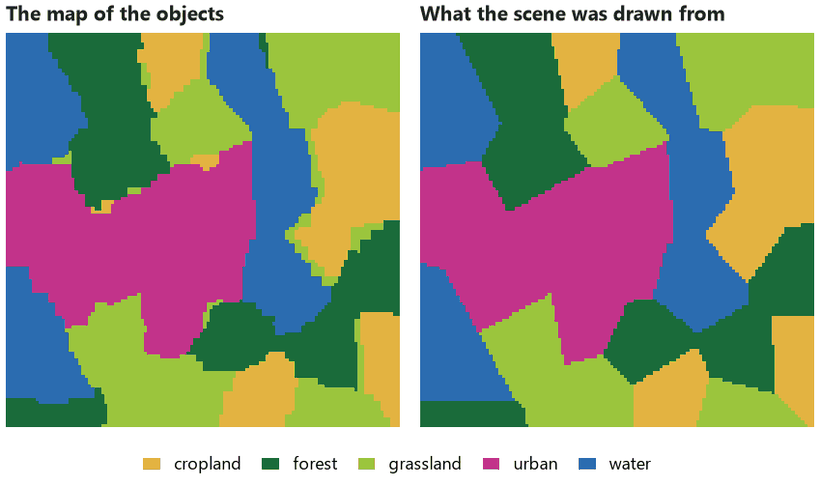
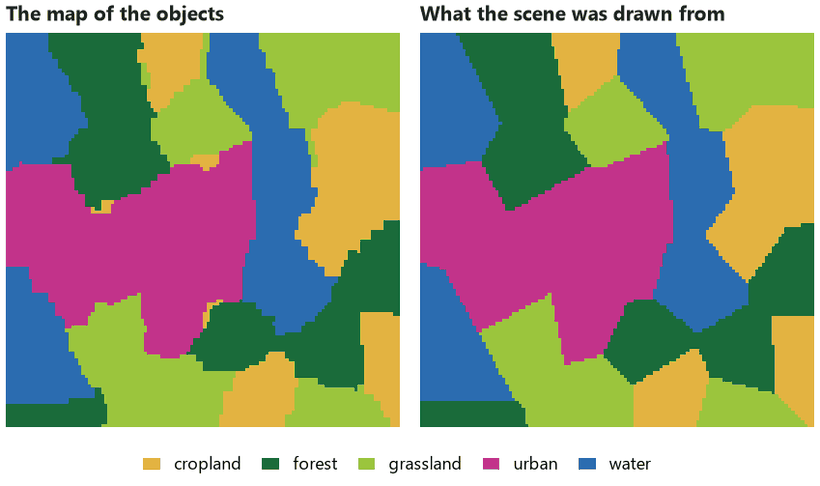
docs(website): the first OBIA tutorial and From eCognition follow the template's new scene: scale 2 set beside ESP's 1.92, 59 samples, folds by blocks, mean_green left out; 107 objects, 94.8 % of the cells, kappa 0.86, figures drawn again

diff --git a/website/figures/object-based-image-analysis/first-map-by-objects.py b/website/figures/object-based-image-analysis/first-map-by-objects.py
@@ -1,8 +1,8 @@
 """Figures of "Your first map by objects in 10 minutes" (tutorials/object-based-image-analysis/first-map-by-objects.md).
 
 The template of the page, "Classify an image by clicking samples" (its nodes as templates.rs writes them: the synthetic
-scene nlm.mosaic_gibbs -> nlm.image, multiresolution at the scale ESP suggests, features, the 38 example points, a random
-forest, the classes, the polygons), run as it is, plus the page's check (objects.sample, labelled here from the scene's
+scene nlm.mosaic_gibbs -> nlm.image, multiresolution at scale 2 (about what ESP suggests), features, the 59 example points, folds by
+place, a random forest, the classes, the polygons), run as it is, plus the page's check (objects.sample, labelled here from the scene's
 truth, objects.accuracy). The figures draw what the page walks through: the image, its objects, the samples, the classes,
 the margin, the accuracy and the scale slider.
 Run with: python website/figures/object-based-image-analysis/first-map-by-objects.py   (at most 2 threads: it sets them)
@@ -35,15 +35,15 @@ NAMES = ["cropland", "forest", "grassland", "urban", "water"]  # alphabetical: t
 TRUTH = {1: "water", 2: "forest", 3: "grassland", 4: "cropland", 5: "urban"}  # the scene's codes
 COLORS = {"water": "#2b6cb0", "forest": "#1a6b3a", "grassland": "#9bc53d", "cropland": "#e3b341", "urban": "#c2338a"}
 
-# the points of the template's table (x, y, class): 38 of them, the page says
-SAMPLE_ROWS = """[[9.5, 104.5, "water"], [85.5, 46.5, "water"], [5.5, 38.5, "water"], [9.5, 86.5, "water"], [68.5, 112.5, "water"], [84.5, 78.5, "water"], [10.5, 18.5, "water"], [83.5, 62.5, "water"], [10.5, 3.5, "forest"], [98.5, 30.5, "forest"], [29.5, 97.5, "forest"], [100.5, 19.5, "forest"], [89.5, 22.5, "forest"], [23.5, 110.5, "forest"], [39.5, 91.5, "forest"], [38.5, 103.5, "forest"], [65.5, 90.5, "grassland"], [92.5, 100.5, "grassland"], [87.5, 114.5, "grassland"], [29.5, 20.5, "grassland"], [106.5, 111.5, "grassland"], [94.5, 7.5, "grassland"], [115.5, 69.5, "cropland"], [96.5, 55.5, "cropland"], [114.5, 8.5, "cropland"], [114.5, 85.5, "cropland"], [104.5, 75.5, "cropland"], [74.5, 7.5, "cropland"], [76.5, 16.5, "cropland"], [49.5, 110.5, "cropland"], [71.5, 60.5, "urban"], [60.5, 70.5, "urban"], [26.5, 43.5, "urban"], [59.5, 44.5, "urban"], [55.5, 58.5, "urban"], [20.5, 35.5, "urban"], [64.5, 61.5, "urban"], [50.5, 31.5, "urban"]]"""
+# the points of the template's table (x, y, class): 59 of them, twelve per class (eleven of grassland)
+SAMPLE_ROWS = """[[8.5, 105.5, "water"], [84.5, 44.5, "water"], [9.5, 17.5, "water"], [68.5, 113.5, "water"], [85.5, 77.5, "water"], [4.5, 38.5, "water"], [9.5, 86.5, "water"], [82.5, 61.5, "water"], [77.5, 100.5, "water"], [22.5, 13.5, "water"], [20.5, 92.5, "water"], [66.5, 102.5, "water"], [99.5, 23.5, "forest"], [23.5, 111.5, "forest"], [10.5, 3.5, "forest"], [42.5, 79.5, "forest"], [67.5, 26.5, "forest"], [111.5, 46.5, "forest"], [38.5, 102.5, "forest"], [25.5, 75.5, "forest"], [82.5, 26.5, "forest"], [35.5, 114.5, "forest"], [39.5, 91.5, "forest"], [29.5, 96.5, "forest"], [107.5, 109.5, "grassland"], [37.5, 5.5, "grassland"], [51.5, 96.5, "grassland"], [94.5, 6.5, "grassland"], [87.5, 115.5, "grassland"], [38.5, 24.5, "grassland"], [90.5, 100.5, "grassland"], [64.5, 91.5, "grassland"], [44.5, 15.5, "grassland"], [60.5, 101.5, "grassland"], [29.5, 20.5, "grassland"], [50.5, 111.5, "cropland"], [115.5, 10.5, "cropland"], [115.5, 85.5, "cropland"], [74.5, 6.5, "cropland"], [97.5, 55.5, "cropland"], [96.5, 83.5, "cropland"], [116.5, 68.5, "cropland"], [83.5, 19.5, "cropland"], [114.5, 25.5, "cropland"], [105.5, 74.5, "cropland"], [104.5, 91.5, "cropland"], [96.5, 66.5, "cropland"], [56.5, 71.5, "urban"], [4.5, 71.5, "urban"], [51.5, 30.5, "urban"], [21.5, 35.5, "urban"], [36.5, 52.5, "urban"], [68.5, 57.5, "urban"], [70.5, 79.5, "urban"], [59.5, 44.5, "urban"], [10.5, 58.5, "urban"], [55.5, 58.5, "urban"], [24.5, 55.5, "urban"], [17.5, 68.5, "urban"]]"""
 
 SCENE = """format = "terraflux/1"
 
 [[nodes]]
 id = "land"
 op = "nlm.mosaic_gibbs"
-params = { rows = 120, columns = 120, germs = 30, r = 12, patch_classes = 5, nlmr_compat = false, rescale = false, seed = 4 }
+params = { rows = 120, columns = 120, germs = 30, r = 12, patch_classes = 5, nlmr_compat = false, rescale = false, seed = 4, crs = "EPSG:32633" }
 
 [[nodes]]
 id = "image"
@@ -55,6 +55,7 @@ params = { seed = 1 }
 id = "segments"
 op = "segment.multiresolution"
 inputs = { image = "image.image" }
+params = { scale = 2 }
 """
 
 CLASSIFY = """
@@ -82,10 +83,22 @@ op = "objects.samples"
 inputs = { objects = "features.objects", samples = "samples.vector" }
 
 [[nodes]]
+id = "folds"
+op = "objects.folds"
+inputs = { objects = "training.objects", samples = "training.table" }
+params = { method = "blocks", size = 30, k = 4, seed = 1 }
+
+[[nodes]]
 id = "model"
 op = "ml.fit"
+inputs = { table = "folds.table" }
+params = { column = "class", columns = ["mean_blue", "mean_red", "mean_nir", "mean_swir1", "mean_swir2", "sd_blue", "sd_green", "sd_red", "sd_nir", "sd_swir1", "sd_swir2", "ndvi", "area", "compactness", "glcm_homogeneity"], fold = "fold", method = "random_forest", seed = 1 }
+
+[[nodes]]
+id = "random_model"
+op = "ml.fit"
 inputs = { table = "training.table" }
-params = { column = "class", method = "random_forest", seed = 1 }
+params = { column = "class", columns = ["mean_blue", "mean_red", "mean_nir", "mean_swir1", "mean_swir2", "sd_blue", "sd_green", "sd_red", "sd_nir", "sd_swir1", "sd_swir2", "ndvi", "area", "compactness", "glcm_homogeneity"], cv = 4, method = "random_forest", seed = 1 }
 
 [[nodes]]
 id = "classify"
@@ -184,9 +197,10 @@ def main():
     m = base + node("ids", "objects.to_map", '{ objects = "segments.objects" }', '{ what = "id" }')
     m += node("cls", "objects.to_map", '{ objects = "classify.objects" }', '{ what = "class" }')
     m += CHECK
+    m += node("auto", "segment.multiresolution", '{ image = "image.image" }')  # no scale: the one ESP suggests
     w = {"image.image": "image.tif", "image.truth": "truth.tif", "ids.map": "ids.tif", "cls.map": "cls.tif",
-         "segments.scale": "scale.json", "classify.table": "classify.csv",
-         "segments.table": "objects.csv", "model.importance": "importance.csv"}
+         "auto.scale": "scale.json", "classify.table": "classify.csv",
+         "segments.table": "objects.csv", "model.importance": "importance.csv", "model.cv": "cv_place.csv", "random_model.cv": "cv_random.csv"}
     r = figs.run(figs.add_writes(m, w), work, "--threads", "2", "--no-journal")
     print(r.stdout[-600:], r.stderr[-1500:])
     out = work / "output"
@@ -304,8 +318,9 @@ def main():
         ok += NAMES[t - 1] == c
     print("training objects", len(train), "of", len(cmap), "others right", ok, "of", tot)
 
-    # 8. the scale: the same classification at several scales (the template's own scale first)
+    # 8. the scale: the same segmentation at half to four times the template's scale 2 (ESP suggests `sc`)
     print("suggested", sc)
+    sc = 2.0
     factors = [0.5, 1, 2, 4]
     ms = SCENE.rsplit("[[nodes]]", 1)[0]  # no segments node
     wr = {}

diff --git a/website/content/tutorials/object-based-image-analysis/first-map-by-objects.md b/website/content/tutorials/object-based-image-analysis/first-map-by-objects.md
@@ -69,6 +69,7 @@ params = { seed = 1 }
 id = "segments"
 op = "segment.multiresolution"
 inputs = { image = "image.image" }
+params = { scale = 2 }
 
 [[nodes]]
 id = "features"
@@ -81,10 +82,16 @@ op = "objects.samples"
 inputs = { objects = "features.objects", samples = "samples.vector" }
 
 [[nodes]]
+id = "folds"
+op = "objects.folds"
+inputs = { objects = "training.objects", samples = "training.table" }
+params = { method = "blocks", size = 30, k = 4, seed = 1 }
+
+[[nodes]]
 id = "model"
 op = "ml.fit"
-inputs = { table = "training.table" }
-params = { column = "class", method = "random_forest", seed = 1 }
+inputs = { table = "folds.table" }
+params = { column = "class", columns = ["mean_blue", "mean_red", "mean_nir", "mean_swir1", "mean_swir2", "sd_blue", "sd_green", "sd_red", "sd_nir", "sd_swir1", "sd_swir2", "ndvi", "area", "compactness", "glcm_homogeneity"], fold = "fold", method = "random_forest", seed = 1 }
 
 [[nodes]]
 id = "classify"
@@ -92,18 +99,27 @@ op = "objects.classify"
 inputs = { objects = "features.objects", model = "model.model", samples = "training.table" }
 ```
 
-The model also has nodes for the example points (`sample_table`, `samples`), the polygons (`polygons`, `write`) and a
-Plot (`plot`). Click the last node, `plot`, and press ++ctrl+enter++ (**Run to here** in the Model pane's bar): the
-nodes it needs run, and the Viewer shows the map of classes.
+The model also has nodes for the example points (`sample_table`, `samples`), a second forest for comparison
+(`random_model`), the polygons (`polygons`, `write`) and a Plot (`plot`). The node `folds` deals the samples into four
+folds by place ([[objects.folds]]) so that `model` can tell, with its `cv` output, how well it does on objects far from
+those it learned from; part 5 takes this up. The forest reads the attributes but `mean_green`, which moves with
+`mean_red` (their correlation is 0.98) and would only be told as one of two almost equal.
+
+The template opens with one warning in the Problems pane, on purpose: the node `random_model` fits the same forest
+with folds drawn at random, to compare with the folds by place, and the warning says that random folds give a higher
+accuracy than the model will have on other places.
+
+Click the last node, `plot`, and press ++ctrl+enter++ (**Run to here** in the Model pane's bar): the nodes it needs
+run, and the Viewer shows the map of classes.
 
 ## Look at the objects
 
-Click the node `segments`. The Viewer shows the objects, each outlined, and says how many there are: 116 in this
+Click the node `segments`. The Viewer shows the objects, each outlined, and says how many there are: 107 in this
 scene. In the controls
 beside the map, **Fill** chooses how they are coloured (*no fill*, *by class* once they have classes, or *a colour
 each*), and **Outline** and *width* the lines.
 
-![The objects over the image](/img/tutorials/object-based-image-analysis/first-map-by-objects/objects.png "The 116 objects of the template, outlined over the image in true colour. An object stops where the colour changes; a big uniform area (the town in the middle) is cut into a few large objects.")
+![The objects over the image](/img/tutorials/object-based-image-analysis/first-map-by-objects/objects.png "The 107 objects of the template, outlined over the image in true colour. An object stops where the colour changes; a big uniform area (the town in the middle) is cut into a score of large objects.")
 
 - Move the pointer over the map: the object under it is told and outlined.
 - Click an object to select it. Below the map the attribute table has a row per object, and the selected object's
@@ -113,20 +129,23 @@ each*), and **Outline** and *width* the lines.
 
 ![One object and its neighbours](/img/tutorials/object-based-image-analysis/first-map-by-objects/selected.png "An object selected (orange) and, after N, its neighbours (blue), drawn here as the Viewer draws them. The inspector lists the attributes of the selected object.")
 
-The size of the objects comes from the **scale** of the segmentation. The template gives none, so
-[[segment.multiresolution]] takes the first scale that [[segment.scale]] suggests for the image (the `scale` output
-says which one: 1.92 here). Select `segments`, set `scale` in the Node pane to a larger value, run again, and the
-objects are larger and fewer; to a smaller one, and they are smaller and more numerous. Move the slider to see it
-on this scene, with the scale from half to four times the suggestion.
+The size of the objects comes from the **scale** of the segmentation. Left empty, [[segment.multiresolution]] takes
+the first scale that [[segment.scale]] suggests for the image (its `scale` output says which one, and a warning
+tells it was used: 1.92 on this scene). The template sets `scale = 2`, close to that suggestion, so that the
+example points always fall on the same objects: the samples of the template are points, and a point picks the object
+under it, so another scale would put some of them on objects of a different look. Select `segments`, set `scale` in
+the Node pane to a larger value, run again, and the objects are larger and fewer; to a smaller one, and they are
+smaller and more numerous. Move the slider to see it on this scene, with the scale from half to four times the
+template's 2.
 
 ```tfslider
-label: Scale (times the suggested 1.92)
-caption: "The same image segmented with the scale set to 0.5, 1, 2 and 4 times the one that segment.scale suggests (shape 0.1 and compactness 0.5, the node's defaults). Each is a run of segment.multiresolution."
+label: Scale (times the template's 2)
+caption: "The same image segmented with the scale set to 0.5, 1, 2 and 4 times the template's scale of 2 (about the 1.92 that segment.scale suggests; shape 0.1 and compactness 0.5, the node's defaults). Each is a run of segment.multiresolution."
 frames:
-  - { value: 0.5, src: /img/tutorials/object-based-image-analysis/first-map-by-objects/scale_0.5.png, caption: "Scale 0.96", stats: { Objects: "401" } }
-  - { value: 1, src: /img/tutorials/object-based-image-analysis/first-map-by-objects/scale_1.png, caption: "Scale 1.92 (the suggestion)", stats: { Objects: "116" } }
-  - { value: 2, src: /img/tutorials/object-based-image-analysis/first-map-by-objects/scale_2.png, caption: "Scale 3.85", stats: { Objects: "30" } }
-  - { value: 4, src: /img/tutorials/object-based-image-analysis/first-map-by-objects/scale_4.png, caption: "Scale 7.7", stats: { Objects: "17" } }
+  - { value: 0.5, src: /img/tutorials/object-based-image-analysis/first-map-by-objects/scale_0.5.png, caption: "Scale 1", stats: { Objects: "383" } }
+  - { value: 1, src: /img/tutorials/object-based-image-analysis/first-map-by-objects/scale_1.png, caption: "Scale 2 (the template)", stats: { Objects: "107" } }
+  - { value: 2, src: /img/tutorials/object-based-image-analysis/first-map-by-objects/scale_2.png, caption: "Scale 4", stats: { Objects: "29" } }
+  - { value: 4, src: /img/tutorials/object-based-image-analysis/first-map-by-objects/scale_4.png, caption: "Scale 8", stats: { Objects: "16" } }
 chart:
   type: line
   data: /data/tutorials/object-based-image-analysis/first-map-by-objects/scales.csv
@@ -135,8 +154,8 @@ chart:
   ylabel: Objects
 ```
 
-At half the scale the town is broken into pieces; at four times it, the image has 17 objects and some of them hold
-two classes. The suggestion sits between.
+At half the scale the town is broken into pieces; at four times it, the image has 16 objects and some of them hold
+two classes. The template's scale sits between.
 
 !!! tip
     Objects should be about the size of the things you want to map: smaller than a forest stand, a few times larger
@@ -146,7 +165,7 @@ two classes. The suggestion sits between.
 
 ## Click the samples
 
-The template comes with 38 example points. Replace them with yours, by clicking on the objects:
+The template comes with 59 example points, twelve of each class (eleven of grassland, the class with the fewest objects). Replace them with yours, by clicking on the objects:
 
 <div class="steps" markdown>
 
@@ -164,7 +183,7 @@ The template comes with 38 example points. Replace them with yours, by clicking 
 
 </div>
 
-![The template's samples on the objects](/img/tutorials/object-based-image-analysis/first-map-by-objects/samples.png "The template's 38 example points, a coloured dot on an object each, over the objects: eight per class, six of grassland. The palette would mark each class *few*.")
+![The template's samples on the objects](/img/tutorials/object-based-image-analysis/first-map-by-objects/samples.png "The template's 59 example points, a coloured dot on an object each, over the objects: twelve per class, eleven of grassland. Every class has the 10 the palette asks for, so none is marked *few*.")
 
 Apply adds two nodes to the model, a table of your points and the points made from it, and connects them to the node
 `training`, in place of the template's own points. Run to `plot` again: the map has changed with your examples.
@@ -172,9 +191,9 @@ Click `classify` and set the **Fill** to *by class*: each object has the colour 
 the probability of each class and the **margin** (the largest probability minus the next). Where the margin is low,
 the forest hesitates: those are the objects where one more sample helps most.
 
-![The map of classes](/img/tutorials/object-based-image-analysis/first-map-by-objects/classes.png "Left: the classes the forest gave the objects, from the template's 38 points. Right: the classes the scene was drawn from. 93.8 % of the cells have the right class; the mistakes are along the borders and in a few small objects.")
+![The map of classes](/img/tutorials/object-based-image-analysis/first-map-by-objects/classes.png "Left: the classes the forest gave the objects, from the template's 59 points. Right: the classes the scene was drawn from. 94.8 % of the cells have the right class; the mistakes are along the borders and in a few small objects.")
 
-Here the forest knows the truth, so it can be counted: 93.8 % of the 14,400 cells of the map have the class the
+Here the forest knows the truth, so it can be counted: 94.8 % of the 14,400 cells of the map have the class the
 scene was drawn from. In your own image you will not have that number, which is why the next section exists.
 
 ![The margin of each object](/img/tutorials/object-based-image-analysis/first-map-by-objects/margin.png "The margin of every object: yellow where one class is far ahead, dark where two are close. The dark objects are slivers along the borders between classes, where the blur of the image mixes two classes.")
@@ -231,10 +250,10 @@ params = { class = "reference", design = "objects" }
 
 </div>
 
-With the template's 116 objects, no class has 50 of them, so [[objects.sample]] gives every object of each class: the
-sample is the whole map. That is a limit of this small example, and it has a cost: the 38 objects the forest learned
-from are in it too. Labelled from the scene's truth, the sample gives the matrix below; leave the 38 training objects
-out and the forest is right on 61 of the other 78 objects (78 %), a little worse than the matrix says. On a real image,
+With the template's 107 objects, no class has 50 of them, so [[objects.sample]] gives every object of each class: the
+sample is the whole map. That is a limit of this small example, and it has a cost: the 59 objects the forest learned
+from are in it too. Labelled from the scene's truth, the sample gives the matrix below; leave the 59 training objects
+out and the forest is right on 39 of the other 48 objects (81 %), worse than the matrix says. On a real image,
 with hundreds of objects per class, a sample of 50 holds few of the objects you clicked.
 
 ```tftable
@@ -243,7 +262,7 @@ labels: { map: "Map \\ reference" }
 heat: true
 digits: 0
 align: { map: left }
-caption: "The confusion matrix of the 116 objects of the template (every object, since no class has 50), labelled from the scene's truth: the class the map gave (rows) against the true class (columns). 95 are on the diagonal, 81.9 %; kappa 0.77."
+caption: "The confusion matrix of the 107 objects of the template (every object, since no class has 50), labelled from the scene's truth: the class the map gave (rows) against the true class (columns). 95 are on the diagonal, 88.8 %; kappa 0.86."
 ```
 
 The outputs are tables: the **confusion matrix** (the map's classes in rows, the reference's in columns), the user's
@@ -256,12 +275,12 @@ are right more often than the rest of the map.
     The example image is drawn from a map of classes, the node `land`, so there the truth is known. With an image of
     yours it is not, and the sample of objects labelled by you is the way to know.
 
-The matrix is read row by row: of the 32 objects the map called grassland, 20 are grassland, 5 are cropland, 3 forest,
-3 water and 1 urban. Those objects are mostly on the borders, which the margin map showed. The other tables hold the user's and
+The matrix is read row by row: of the 22 objects the map called grassland, 19 are grassland, 1 is cropland, 1 forest and
+1 water. Those objects are mostly on the borders, which the margin map showed. The other tables hold the user's and
 producer's accuracies and the areas with their confidence intervals. `design = "objects"` tells [[objects.accuracy]] how the
 sample was drawn (every object of a class had the same chance, as [[objects.sample]] does it), so that the area estimates
 weight each sampled object by its area. Here the sample is **every** object, so the area estimates have no sampling error:
-the intervals are 0, and the area-weighted overall accuracy is 96.4 %, against 81.9 % by objects, because the large
+the intervals are 0, and the area-weighted overall accuracy is 98.0 %, against 88.8 % by objects, because the large
 objects are the ones the forest gets right. With a real sample the intervals are not 0. To report an accuracy, give the overall number
 with its interval, the matrix, and how the sample was drawn.
 
@@ -293,11 +312,12 @@ instead, [[objects.to_map]] gives one number per class (`what = "class"`).
 
 Things to watch with real images:
 
-- **Scale of the values.** Reflectance from 0 to 1, or digital numbers from 0 to 10000? Leave the segmentation's
-  `scale` empty so that it follows the image.
+- **Scale of the values.** Reflectance from 0 to 1, or digital numbers from 0 to 10000? The template's `scale = 2`
+  fits its own image. On yours, empty the `scale` of `segments` so that it follows the image (its `scale` output tells
+  the one it took), then choose from there.
 - **Few samples.** Under 10 per class the palette says *few*: add more, in different looks of the class.
 - **Coordinate system.** The polygons carry the image's, so an image without one gives polygons that a GIS cannot
-  place.
+  place (the template's image has EPSG:32633, drawn on purpose).
 - **Big images.** [[segment.multiresolution]] cuts a large image into tiles (`tile` and `margin`) and reads big
   images in windows from disk.
 

diff --git a/website/content/tutorials/object-based-image-analysis/from-ecognition.md b/website/content/tutorials/object-based-image-analysis/from-ecognition.md
@@ -76,6 +76,7 @@ its NDWI, vegetation by its NDVI (forest and grassland apart by the short-wave i
 id = "segments"
 op = "segment.multiresolution"
 inputs = { image = "image.image" }
+params = { scale = 2 }
 
 [[nodes]]
 id = "features"
@@ -120,7 +121,8 @@ inputs = { objects = "same.objects" }
 
 1. **Segment.** [[segment.multiresolution]] takes `scale`, `shape` and `compactness` as eCognition does; `shape = 0.1`
    and `compactness = 0.5` are the usual start. Left without `scale`, it takes the first one [[segment.scale]]
-   suggests for the image; [[segment.optimize]] goes further and scores the objects of each scale in a list
+   suggests for the image (the template sets `scale = 2`, close to the 1.92 that suggestion is on its image, so that it
+   always gives the same objects); [[segment.optimize]] goes further and scores the objects of each scale in a list
    (the variance inside them and Moran's I between them) and keeps the best.
 2. **Measure.** [[objects.features]] with `features = ["mean", "ndvi", "ndwi"]`: only what the rules read. NDVI and
    NDWI are found from the bands named `red`, `nir` and `green`.
